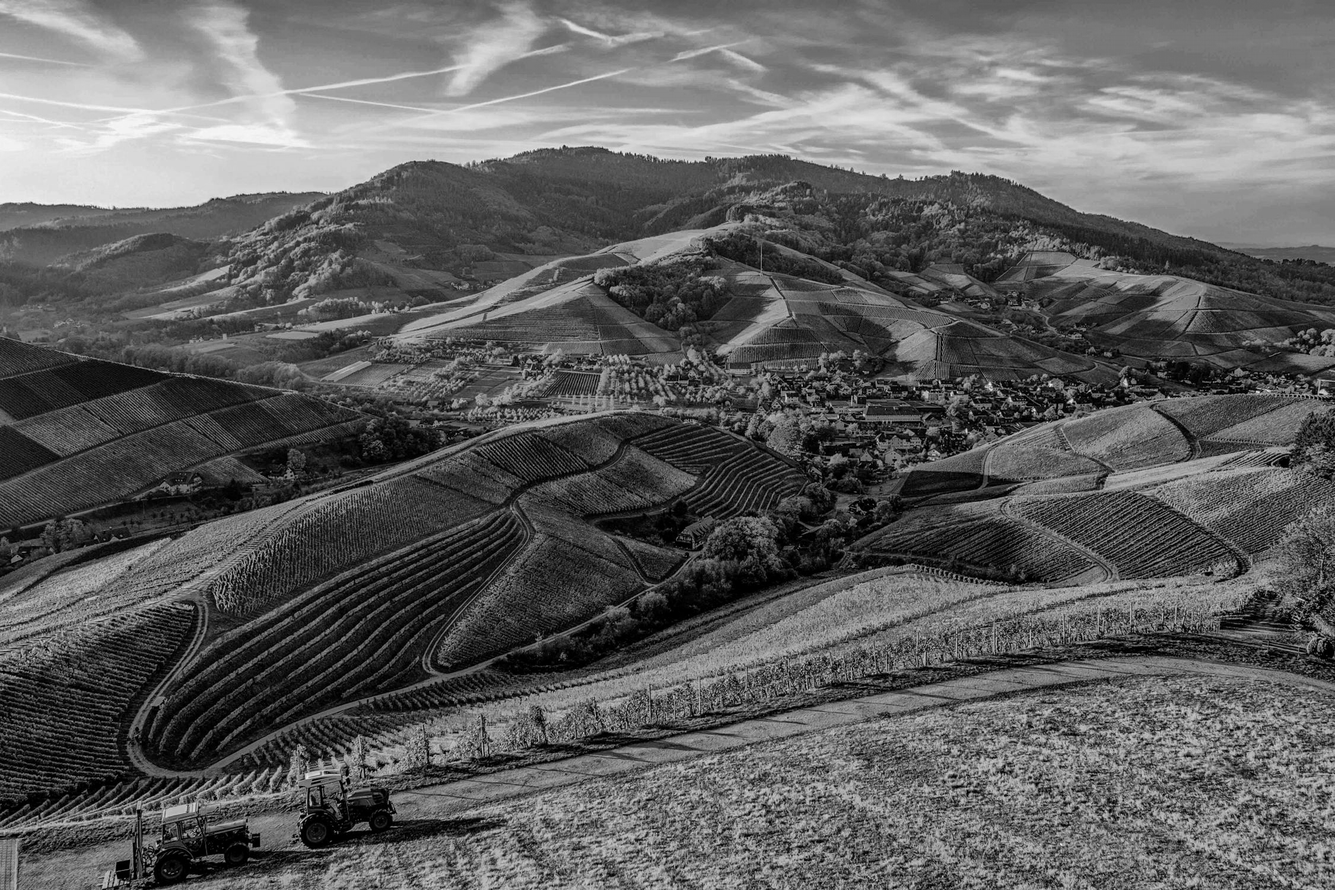
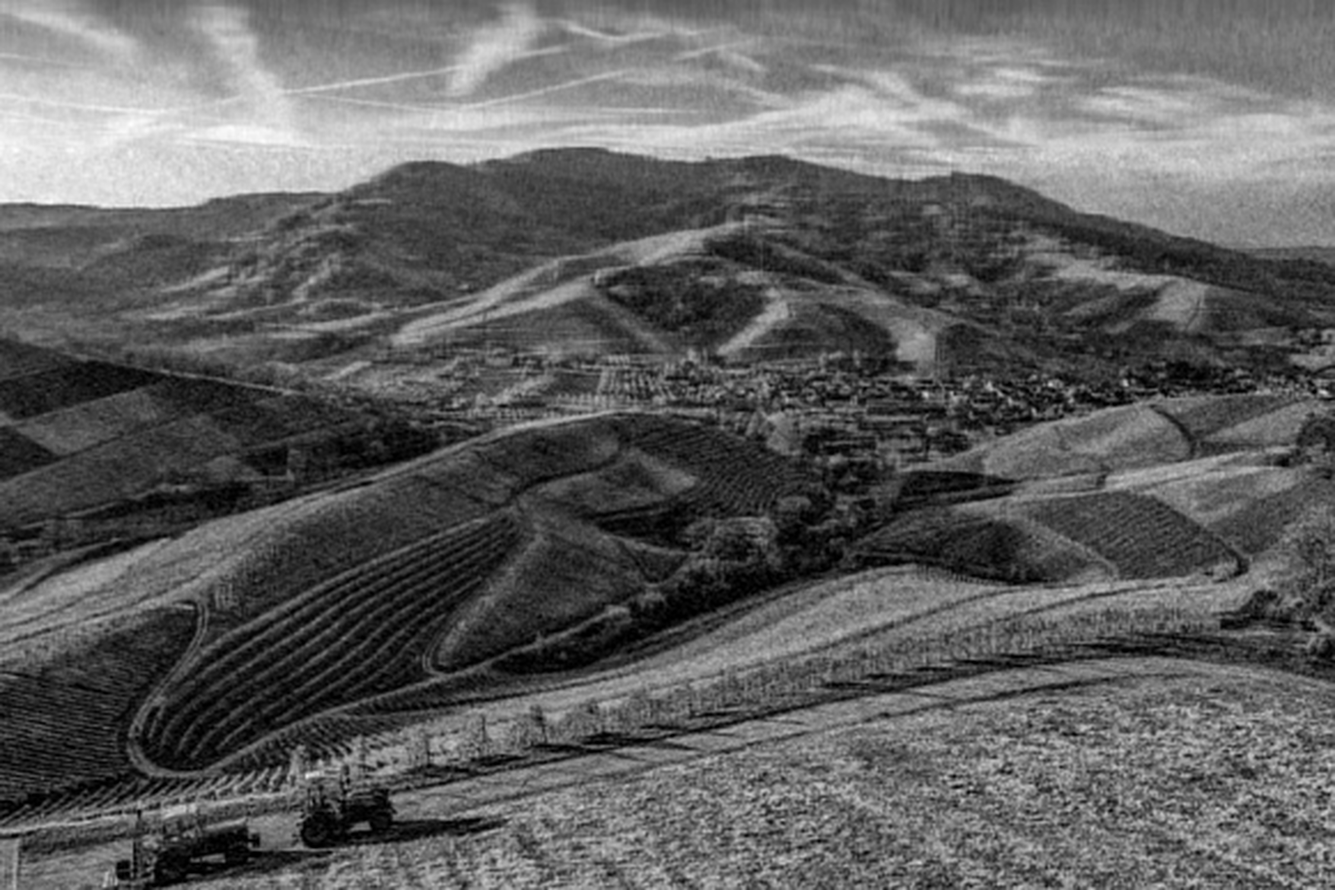
Implement SVD image compression and decompression with metadata handling

diff --git a/lab9/svd_image_compression/src/main.rs b/lab9/svd_image_compression/src/main.rs
@@ -3,6 +3,7 @@ use ndarray::{Array1, Array2, ArrayBase, DataMut, Ix2, s};
 use ndarray_linalg::svd::SVD;
 use std::path::Path;
 use std::env;
+use std::cmp::min;
 
 fn image_to_ndarray(img: &GrayImage) -> Array2<f64> {
     let (width, height) = img.dimensions();
@@ -57,7 +58,13 @@ fn main() {
     let args: Vec<String> = env::args().collect();
     let mode = if args.len() > 1 { &args[1] } else { "compress" };
     
-    let input_path = "example.png";
+    // W trybie kompresji użytkownik określa plik wejściowy, w dekompresji zawsze używamy compressed.png
+    let input_path = if mode == "compress" {
+        if args.len() > 2 { args[2].clone() } else { "example.png".to_string() }
+    } else {
+        "compressed.png".to_string()
+    };
+    
     let output_path = match mode {
         "compress" => "compressed.png",
         "decompress" => "decompressed.png",
@@ -67,49 +74,139 @@ fn main() {
         }
     };
     
-    let k = 10; // wartość dla kompresji
-
-    let img = match image::open(&Path::new(input_path)) {
-        Ok(img) => img.to_luma8(),
-        Err(e) => {
-            eprintln!("Error opening image file: {}", e);
-            eprintln!("Please make sure '{}' exists in the current directory", input_path);
-            return;
-        }
-    };
-
-    let array = image_to_ndarray(&img);
+    // Stopień kompresji - im mniejszy, tym większa kompresja
+    let k = if args.len() > 3 { args[3].parse::<usize>().unwrap_or(10) } else { 10 };
     
-    // Zależnie od trybu, wykonaj kompresję lub pełną dekompozycję
-    let result_array = if mode == "compress" {
-        // Standardowa kompresja z redukcją rangi
-        let compressed_array = compress_svd(&array, k);
-        
-        // Wyświetl statystyki kompresji
+    if mode == "compress" {
+        let img = match image::open(&Path::new(&input_path)) {
+            Ok(img) => img.to_luma8(),
+            Err(e) => {
+                eprintln!("Error opening image file: {}", e);
+                eprintln!("Please make sure '{}' exists in the current directory", input_path);
+                return;
+            }
+        };
+
+        let array = image_to_ndarray(&img);
         let (height, width) = array.dim();
-        let original_data_size = height * width;
-        let compressed_data_size = height * k + k + k * width;
-        let data_reduction = original_data_size as f64 - compressed_data_size as f64;
-        let percentage = (data_reduction / original_data_size as f64) * 100.0;
         
-        println!("Oryginalna ilość danych: {} wartości", original_data_size);
-        println!("Ilość danych po kompresji SVD (k={}): {} wartości", k, compressed_data_size);
-        println!("Redukcja danych: {} wartości ({:.2}%)", data_reduction, percentage);
-        println!("Współczynnik kompresji: {:.2}:1", original_data_size as f64 / compressed_data_size as f64);
-        
-        compressed_array
-    } else {
-        // Pełna dekompozycja SVD do odtworzenia oryginalnego obrazu
+        // Standardowa kompresja z redukcją rangi
         let (u, s, vt) = array.svd(true, true).unwrap();
         let u = u.unwrap();
         let vt = vt.unwrap();
         
-        println!("Wykonuję pełną dekompozycję SVD do odtworzenia oryginalnego obrazu");
-        decompress_svd(&u, &s, &vt)
-    };
-    
-    let result_img = ndarray_to_image(&result_array);
-    result_img.save(&Path::new(output_path)).expect("Cannot save image");
-    
-    println!("Saved {} image as {}", if mode == "compress" { "compressed" } else { "decompressed" }, output_path);
+        // Zapisujemy oryginalną rozdzielczość i stopień kompresji do pliku metadanych
+        let metadata_path = "image_metadata.txt";
+        std::fs::write(metadata_path, format!("{} {} {}", width, height, k))
+            .expect("Failed to save image metadata");
+            
+        // Oblicz nową rozdzielczość proporcjonalną do wartości k
+        let resize_factor = ((k as f64) / (min(height, width) as f64)).sqrt().min(1.0);
+        let new_height = (height as f64 * resize_factor).round() as usize;
+        let new_width = (width as f64 * resize_factor).round() as usize;
+        
+        // Wyświetl statystyki kompresji
+        let original_data_size = height * width;
+        let compressed_data_size = new_height * new_width; // Dane obrazu o zredukowanej rozdzielczości
+        let data_reduction = original_data_size as f64 - compressed_data_size as f64;
+        let percentage = (data_reduction / original_data_size as f64) * 100.0;
+        
+        println!("Oryginalna rozdzielczość: {}x{} ({} pikseli)", width, height, original_data_size);
+        println!("Skompresowana rozdzielczość: {}x{} ({} pikseli)", new_width, new_height, compressed_data_size);
+        println!("Redukcja danych: {} pikseli ({:.2}%)", data_reduction, percentage);
+        println!("Współczynnik kompresji: {:.2}:1", original_data_size as f64 / compressed_data_size as f64);
+        
+        // Zapisz składowe SVD do użycia przy dekompresji
+        // W rzeczywistej aplikacji zapisalibyśmy je w binarnym formacie
+        let u_k = u.slice(s![.., 0..k]);
+        let s_k = Array2::from_diag(&s.slice(s![0..k]));
+        let vt_k = vt.slice(s![0..k, ..]);
+        let compressed_array = u_k.dot(&s_k).dot(&vt_k);
+        let result_img = ndarray_to_image(&compressed_array);
+        
+        // Resize do nowej rozdzielczości
+        let resized_img = image::imageops::resize(
+            &result_img, 
+            new_width as u32, 
+            new_height as u32, 
+            image::imageops::FilterType::Lanczos3
+        );
+        
+        resized_img.save(&Path::new(output_path)).expect("Cannot save compressed image");
+        println!("Zapisano skompresowany obraz jako {} ({}x{})", output_path, new_width, new_height);
+    } else {
+        // Dekompresja - używamy compressed.png jako wejścia
+        let compressed_img = match image::open(&Path::new(&input_path)) {
+            Ok(img) => img.to_luma8(),
+            Err(e) => {
+                eprintln!("Error opening compressed image: {}", e);
+                eprintln!("Please make sure '{}' exists in the current directory", input_path);
+                return;
+            }
+        };
+        
+        let (compressed_width, compressed_height) = compressed_img.dimensions();
+        
+        // Odczytujemy metadane lub obliczamy oryginalną rozdzielczość na podstawie stopnia kompresji
+        let original_size = if std::path::Path::new("image_metadata.txt").exists() {
+            // Czytaj z metadanych, jeśli istnieją
+            let content = std::fs::read_to_string("image_metadata.txt").unwrap_or_default();
+            let parts: Vec<&str> = content.split_whitespace().collect();
+            
+            if parts.len() >= 3 {
+                let original_width = parts[0].parse::<u32>().unwrap_or(800);
+                let original_height = parts[1].parse::<u32>().unwrap_or(600);
+                // Możemy też sprawdzić, czy k jest zgodne z tym z metadanych
+                (original_width, original_height)
+            } else {
+                // Oblicz na podstawie stopnia kompresji
+                let min_dim = compressed_width.min(compressed_height) as f64;
+                let resize_factor = (min_dim / k as f64).sqrt();
+                let target_width = (compressed_width as f64 / resize_factor).round() as u32;
+                let target_height = (compressed_height as f64 / resize_factor).round() as u32;
+                println!("Obliczam oryginalną rozdzielczość na podstawie stopnia kompresji k={}", k);
+                (target_width, target_height)
+            }
+        } else {
+            // Oblicz na podstawie stopnia kompresji
+            let min_dim = compressed_width.min(compressed_height) as f64;
+            let resize_factor = (min_dim / k as f64).sqrt();
+            let target_width = (compressed_width as f64 / resize_factor).round() as u32;
+            let target_height = (compressed_height as f64 / resize_factor).round() as u32;
+            println!("Obliczam oryginalną rozdzielczość na podstawie stopnia kompresji k={}", k);
+            (target_width, target_height)
+        };
+        
+        let (target_width, target_height) = original_size;
+        
+        // Używamy interpolacji Lanczos3 do zwiększenia rozdzielczości
+        // do oryginalnego rozmiaru
+        let upscaled_img = image::imageops::resize(
+            &compressed_img,
+            target_width,
+            target_height,
+            image::imageops::FilterType::Lanczos3
+        );
+        
+        upscaled_img.save(&Path::new(output_path)).expect("Cannot save decompressed image");
+        println!("Zapisano zdekompresowany obraz jako {} ({}x{})", 
+                 output_path, target_width, target_height);
+        
+        // Dodaj opcjonalną ścieżkę dekompresji używająca SVD (tylko dla demonstracji)
+        if args.len() > 4 && args[4] == "svd" {
+            println!("Używam dekompresji SVD...");
+            
+            // W rzeczywistym przykładzie załadowalibyśmy te dane z pliku
+            let array = image_to_ndarray(&compressed_img);
+            let (u, s, vt) = array.svd(true, true).unwrap();
+            let u = u.unwrap();
+            let vt = vt.unwrap();
+            
+            let decompressed_array = decompress_svd(&u, &s, &vt);
+            let result_img = ndarray_to_image(&decompressed_array);
+            result_img.save(&Path::new(output_path)).expect("Cannot save decompressed image");
+            println!("Zapisano zdekompresowany obraz (SVD) jako {}", output_path);
+            return;
+        }
+    }
 }
